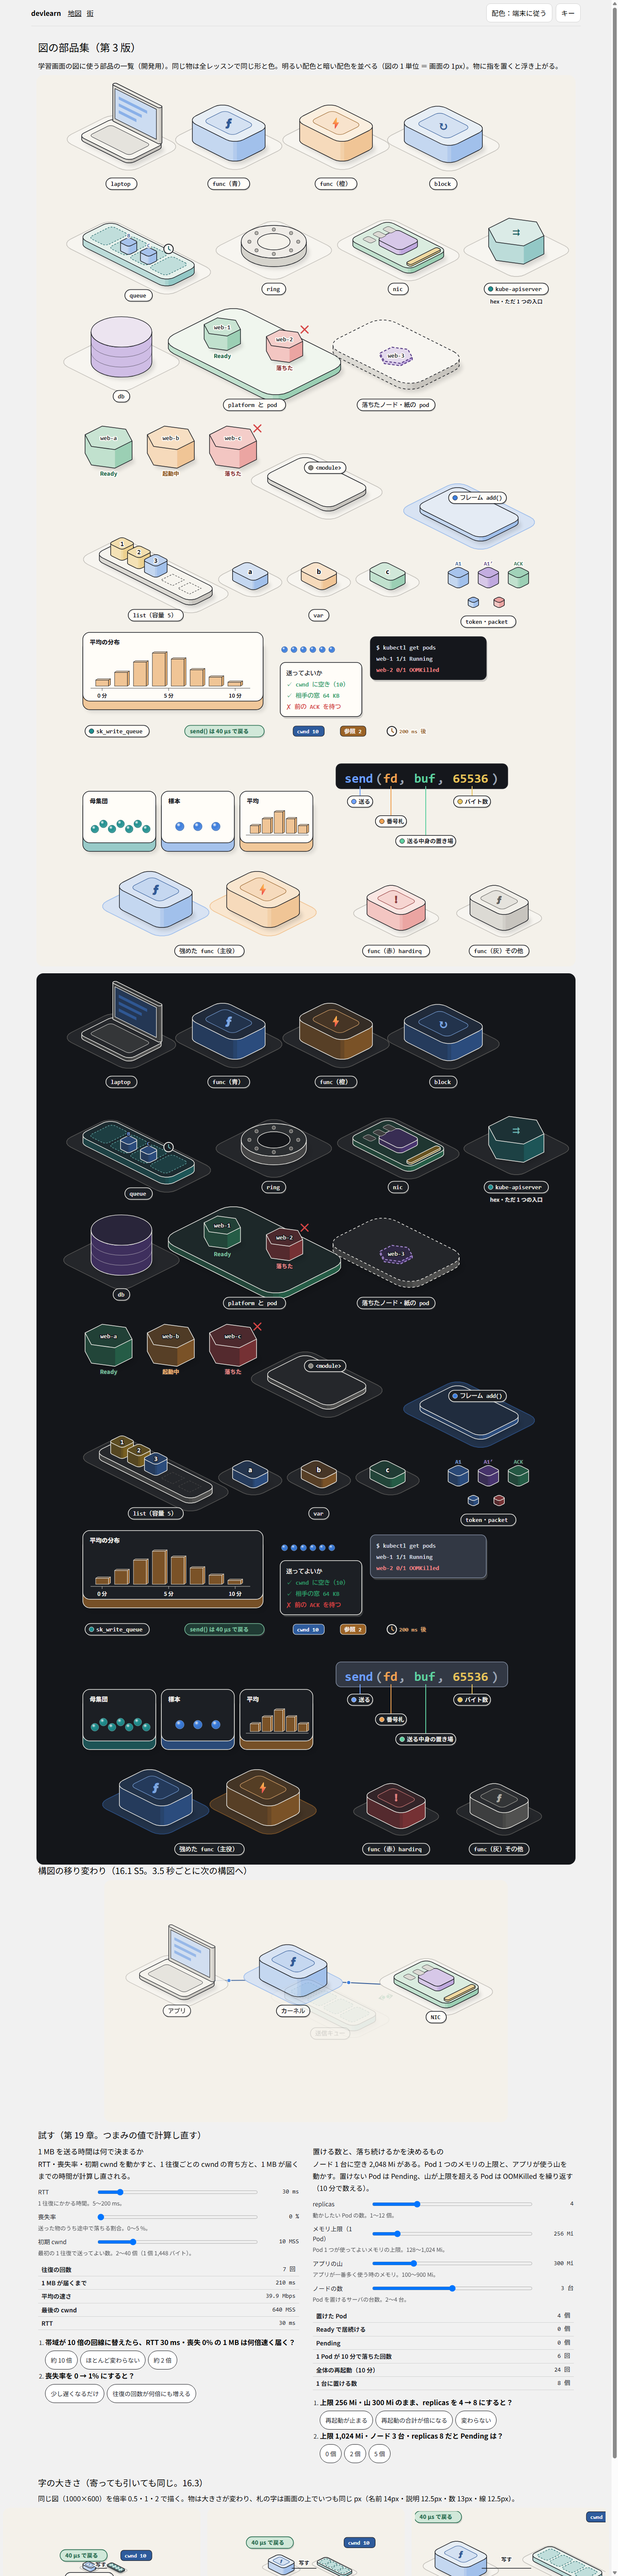
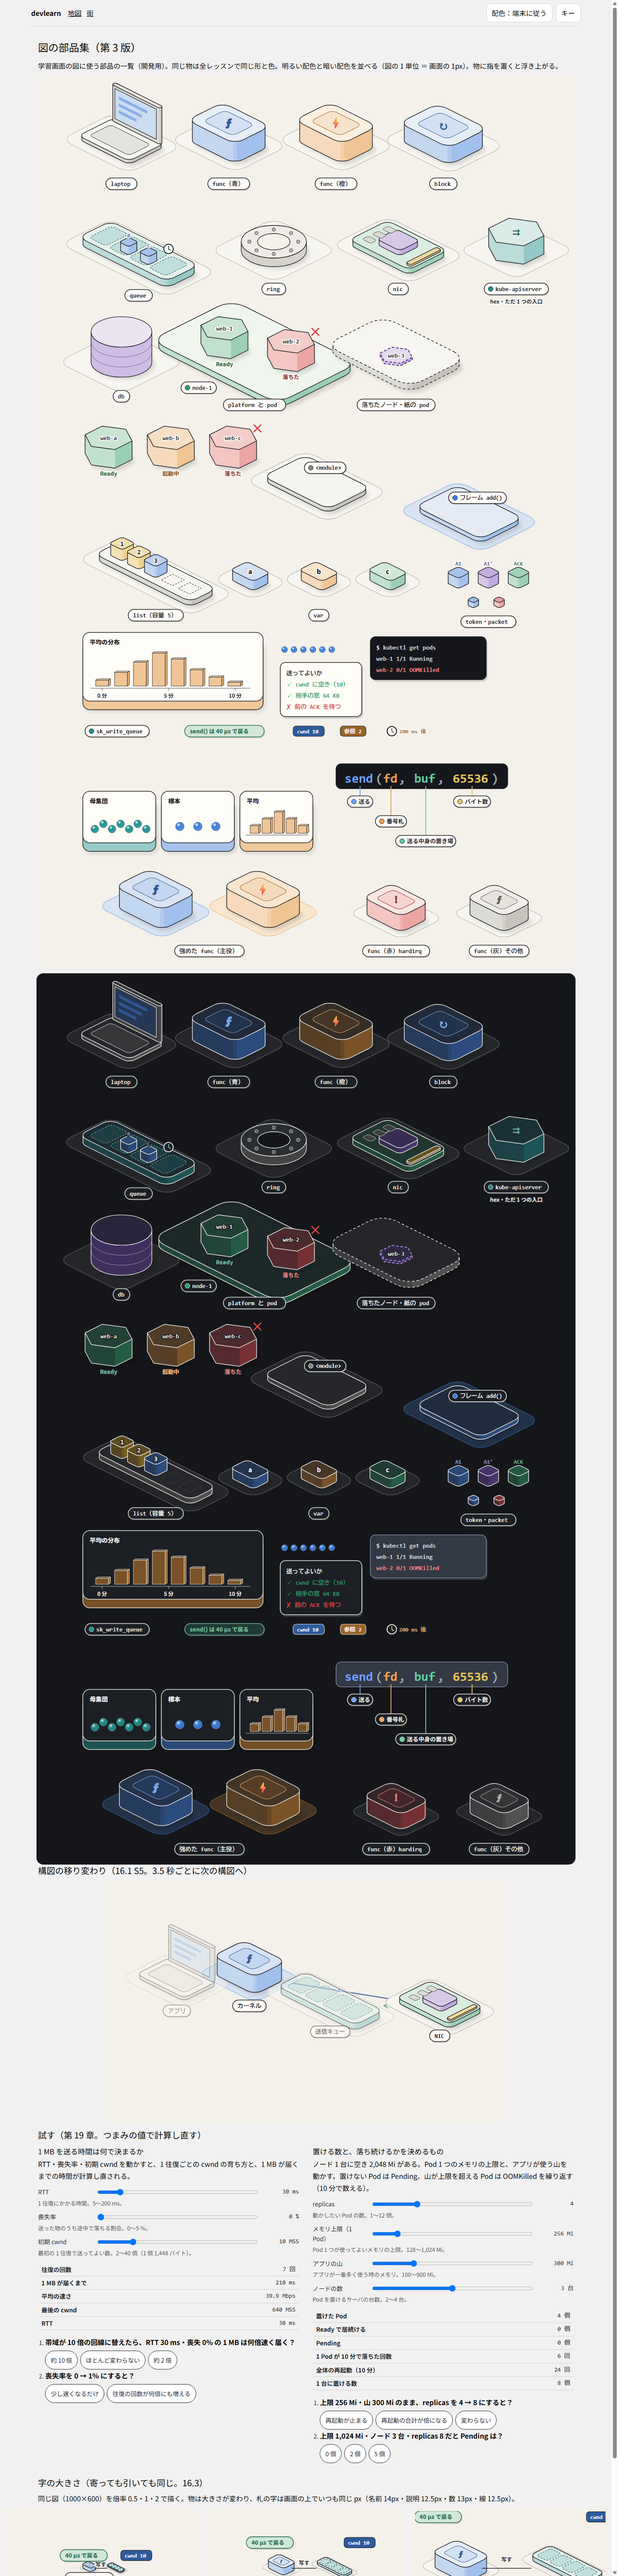
devlearn 10-P 手順 3：18 回目の判定の材料を撮る（配信 c928133）。記録（17 回目）

diff --git a/devlearn/docs/progress/phase-10.md b/devlearn/docs/progress/phase-10.md
@@ -50,7 +50,8 @@
 | 14（配信 `b621b83`） | 18/20（< は token：名前が黒で物の色でない＝LS3-K5・var：名前が小さく見える） | **20/20** | 荷物の名前を物の濃い色に、var の名前を 15px の太い字（等幅でない）に（`d2affa8`） |
 | 15（配信 `d2affa8`） | 18/20（< は queue：時計が B の名前に詰まる・frame：小箱に名前が無く札が浮く） | 17/20（< は queue・frame・card：行が細く間が狭い） | 時計を列の右端の空きの溝の上に、frame の小箱を名前の幅にして名前を上の面に（浮いた札をやめる）、card の行を 26 の間・太字 800 に（`eabb963`）。frame の名前は斜めの面に書くと縁をまたぐので、札を小箱の上に接して載せた（`1faba14`） |
 | 16（配信 `1faba14`） | 19/20（< は queue：中の荷物の名前が単体の token より小さく見える。公開 URL で測ると B・C・A1 とも 13px・CTM 1.000 で同じ。測った値で否定できるので直さない） | 19/20（< は frame：名前の無い小箱が var に見える） | frame の名前の無い小箱をやめ、名前の札を板の奥に立てる（`fa0cb95`） |
-| 17（配信 `fa0cb95`） | ROUND17A | ROUND17B | |
+| 17（配信 `fa0cb95`） | 19/20（< は platform：台の上の Pod が単体より小さく、窮屈で、台に名前が無い） | **20/20** | 台の上の Pod を単体と同じ縮尺 0.8 にし、台を広げ、台に名前の札 node-1（次のコミット） |
+| 18 | ROUND18A | ROUND18B | |
 
 - 字の大きさが寄っても引いても 13〜15px か（16.3）の証拠は手順 4（`UIK`）で取る（判定者 B の指摘）
 
